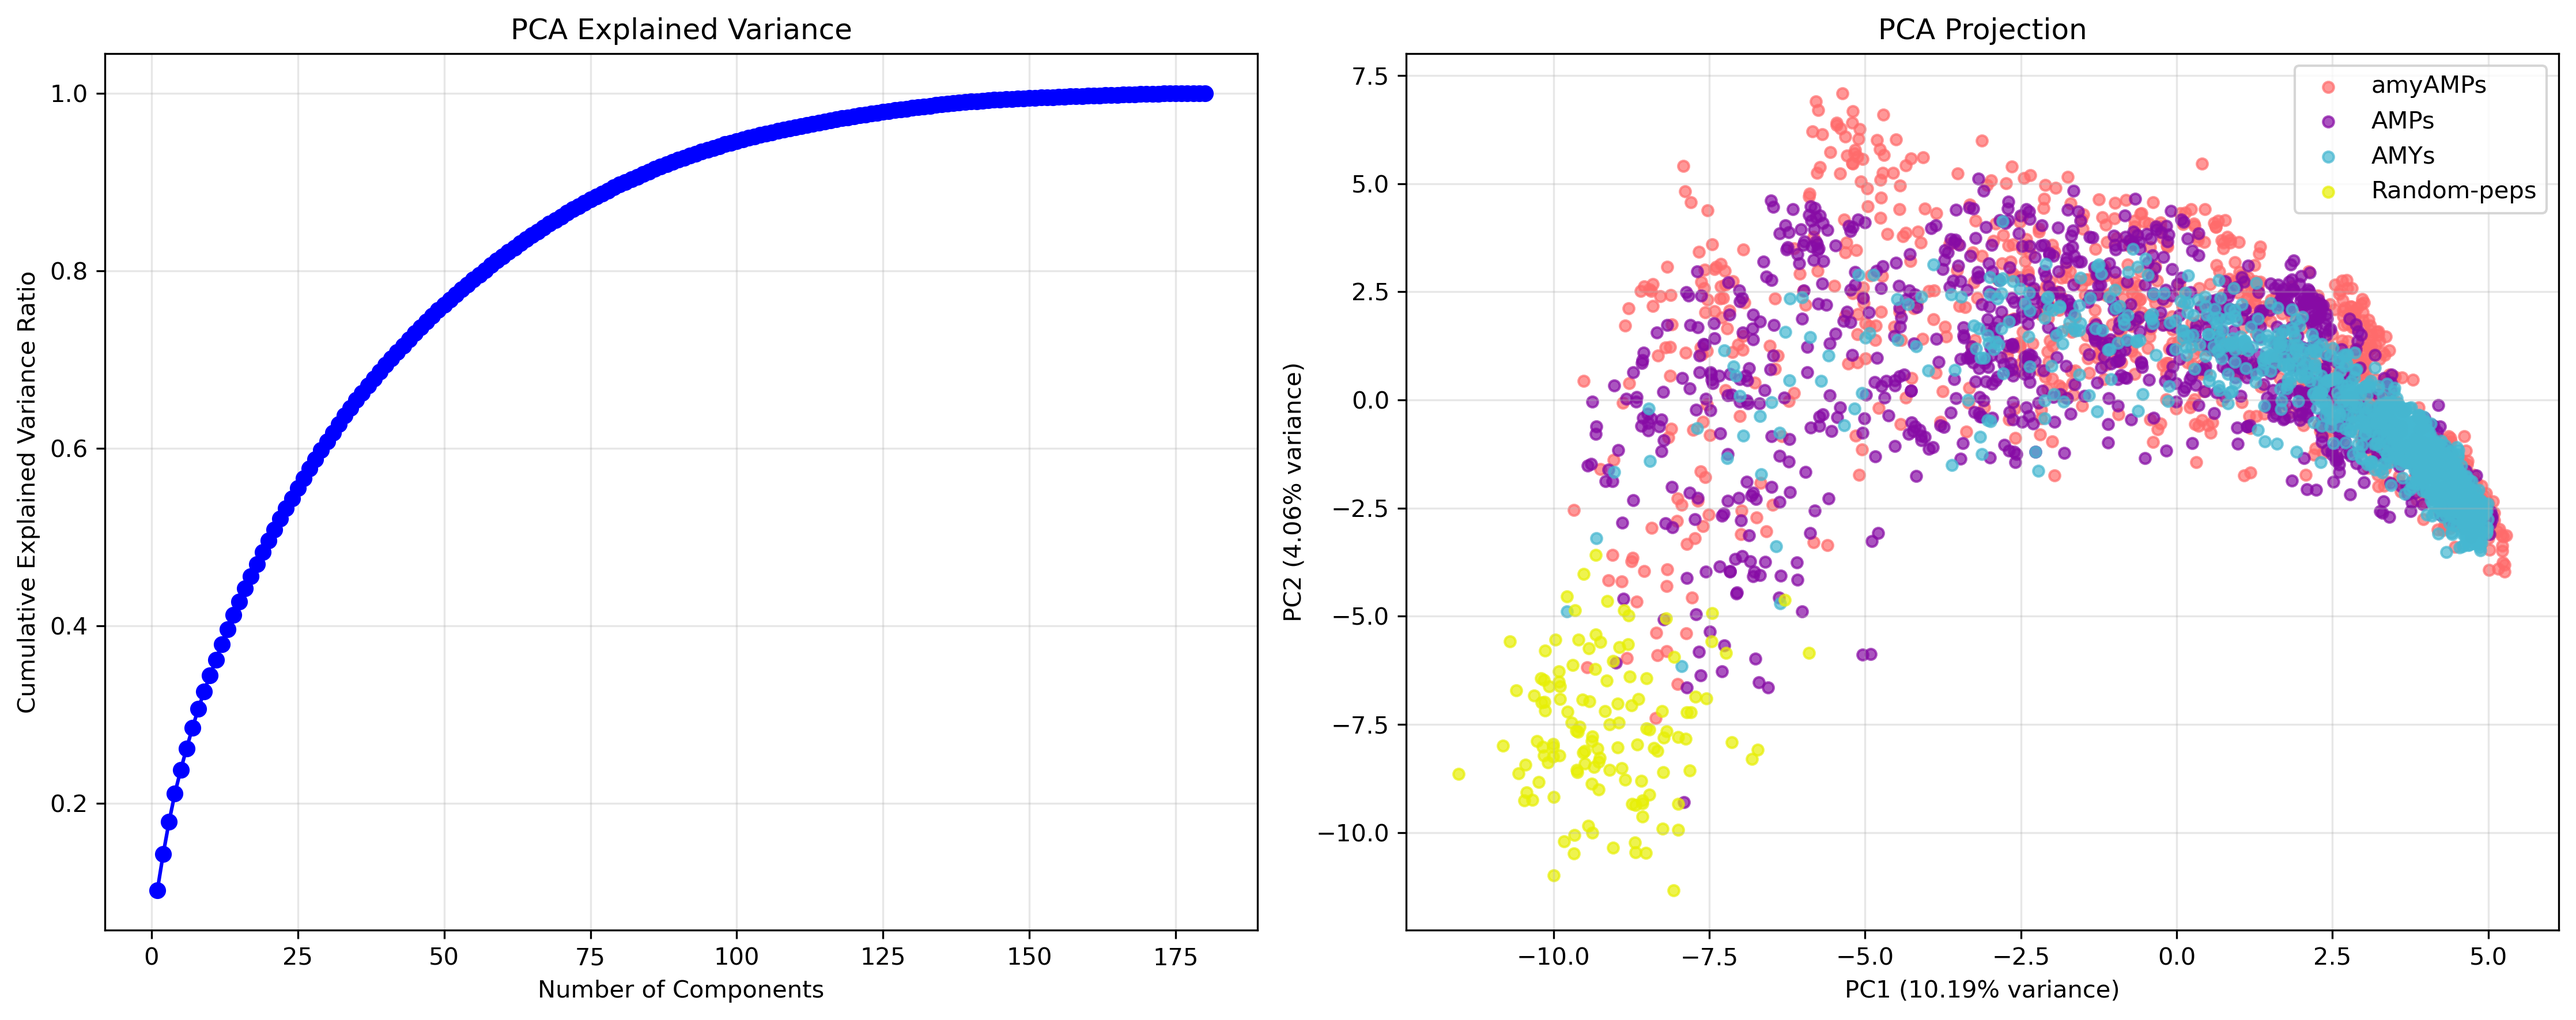
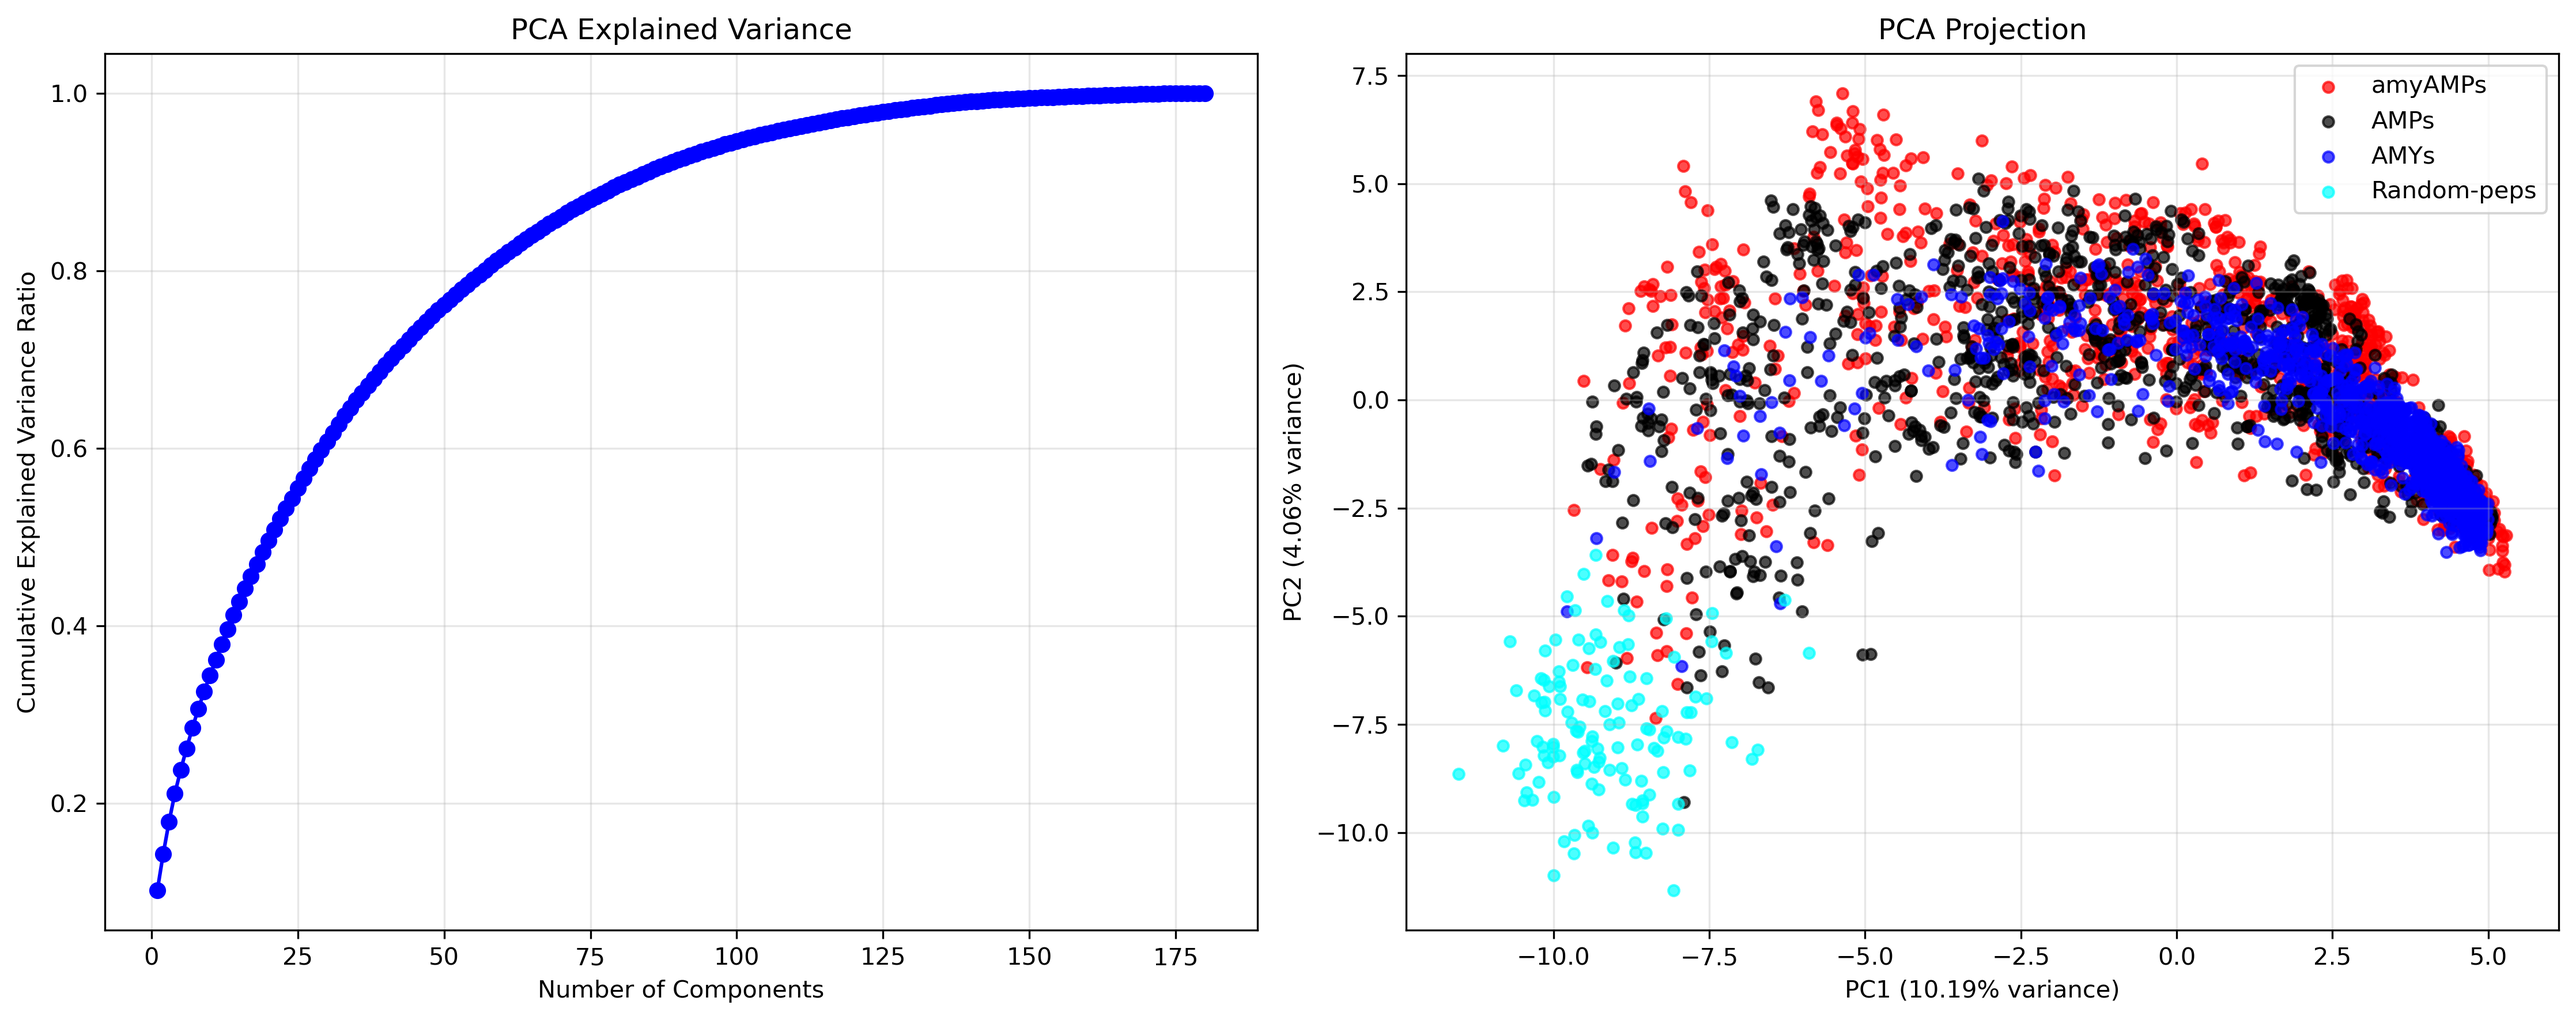
updated

Changed region(s): [[0.5597, 0.0932, 0.9951, 0.839]]

diff --git a/scripts/tSNE.py b/scripts/tSNE.py
@@ -64,10 +64,11 @@ def get_embedded_data(fastafiles, table):
         if len(selected_seqs) == 0:
             group_sizes.append(0)
             continue
-            
+        
         encoded = get_encoded_seqs(selected_seqs, table)
         encoded_flat = encoded.reshape(-1, 30 * 6)
         
+        encoded_flat = encoded_flat[0:125]
         all_data.append(encoded_flat)
         group_sizes.append(len(encoded_flat))
     
@@ -87,7 +88,7 @@ def improved_tSNE2D(embedded_data, group_sizes, group_labels, filename_base):
     """
     Improved t-SNE with better parameters and multiple perplexity values
     """
-    colors = ['#FF6B6B', "#870BA5", '#45B7D1', "#E7EF04"]
+    colors = ['red','black', "blue", "cyan"]
     markers = ['o', 's', '^', 'D']
     
     scaler = StandardScaler()
@@ -142,7 +143,7 @@ def umap_visualization(embedded_data, group_sizes, group_labels, filename_base):
         print("UMAP not installed. Install with: pip install umap-learn")
         return None
     
-    colors = ['#FF6B6B', "#870BA5", '#45B7D1', "#E7EF04"]
+    colors = ['red','black', "blue", "cyan"]
     
     scaler = StandardScaler()
     combined_data_scaled = scaler.fit_transform(embedded_data)
@@ -178,7 +179,7 @@ def pca_analysis(embedded_data, group_sizes, group_labels, filename_base):
     """
     PCA analysis with variance explanation
     """
-    colors = ['#FF6B6B', "#870BA5", '#45B7D1', "#E7EF04"]
+    colors = ['red','black', "blue", "cyan"]
     
     scaler = StandardScaler()
     combined_data_scaled = scaler.fit_transform(embedded_data)
@@ -224,10 +225,10 @@ def density_plots(embedded_data, group_sizes, group_labels, filename_base):
     Create density plots for each physicochemical property
     """
     property_names = ["H1", "V", "P1", "Pl", "PKa", "NCl"]
-    colors = ['#FF6B6B', "#870BA5", '#45B7D1', "#E7EF04"]
+    colors = ['red','black', "blue", "cyan"]
     
     # Reshape data to get individual amino acid features
-    reshaped_data = embedded_data.reshape(-1, 30 * 6)
+    reshaped_data = embedded_data.reshape(-1, 30 , 6)
     avg_features = np.mean(reshaped_data, axis=1)  # Average over sequence length
     
     fig, axes = plt.subplots(2, 3, figsize=(18, 12), dpi=300)
@@ -271,7 +272,7 @@ def comprehensive_analysis(fastafiles, table, output_dir):
     improved_tSNE2D(embedded_data, group_sizes, group_labels, filename_base)
     umap_visualization(embedded_data, group_sizes, group_labels, filename_base)
     pca_analysis(embedded_data, group_sizes, group_labels, filename_base)
-    #density_plots(embedded_data, group_sizes, group_labels, filename_base)
+    density_plots(embedded_data, group_sizes, group_labels, filename_base)
 
 #### Enhanced visualization analysis
 if __name__ == "__main__":
